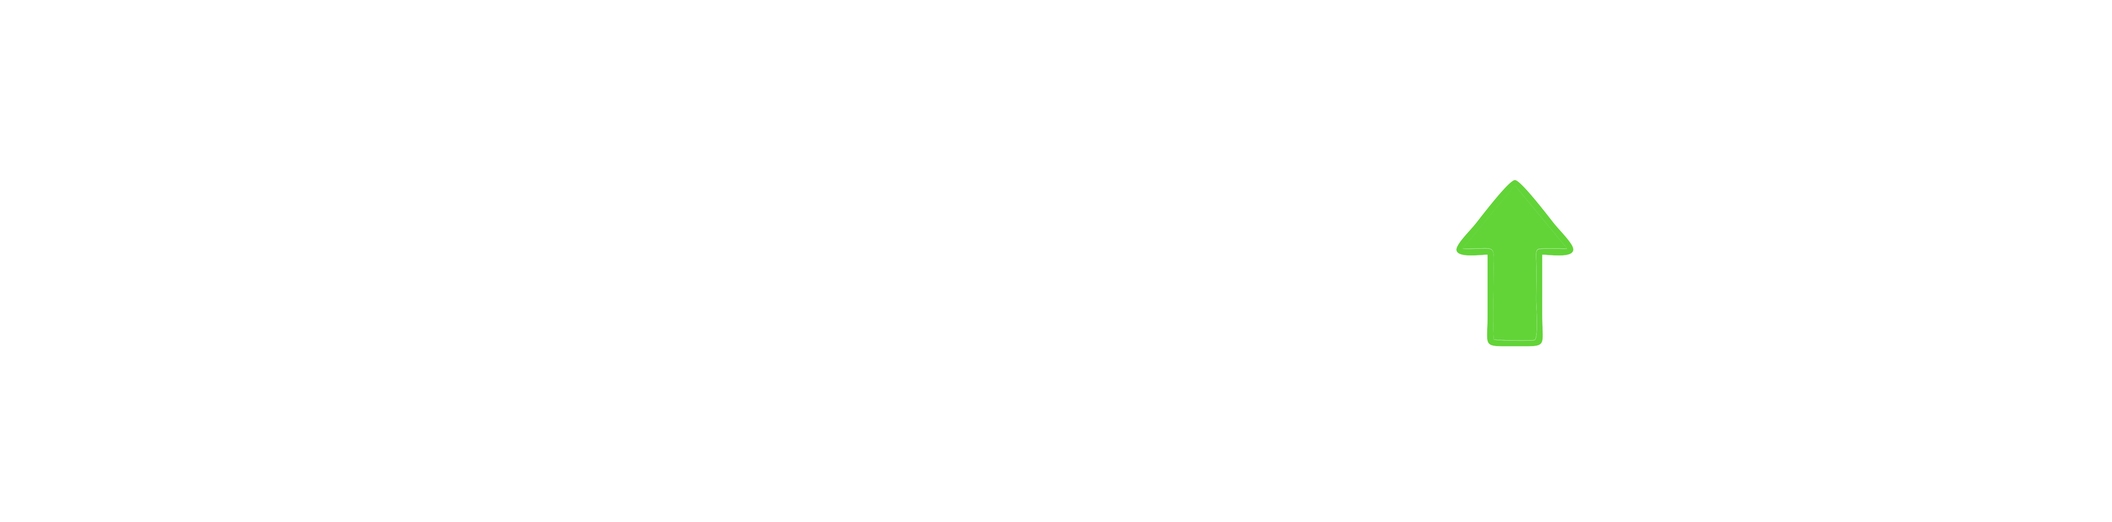
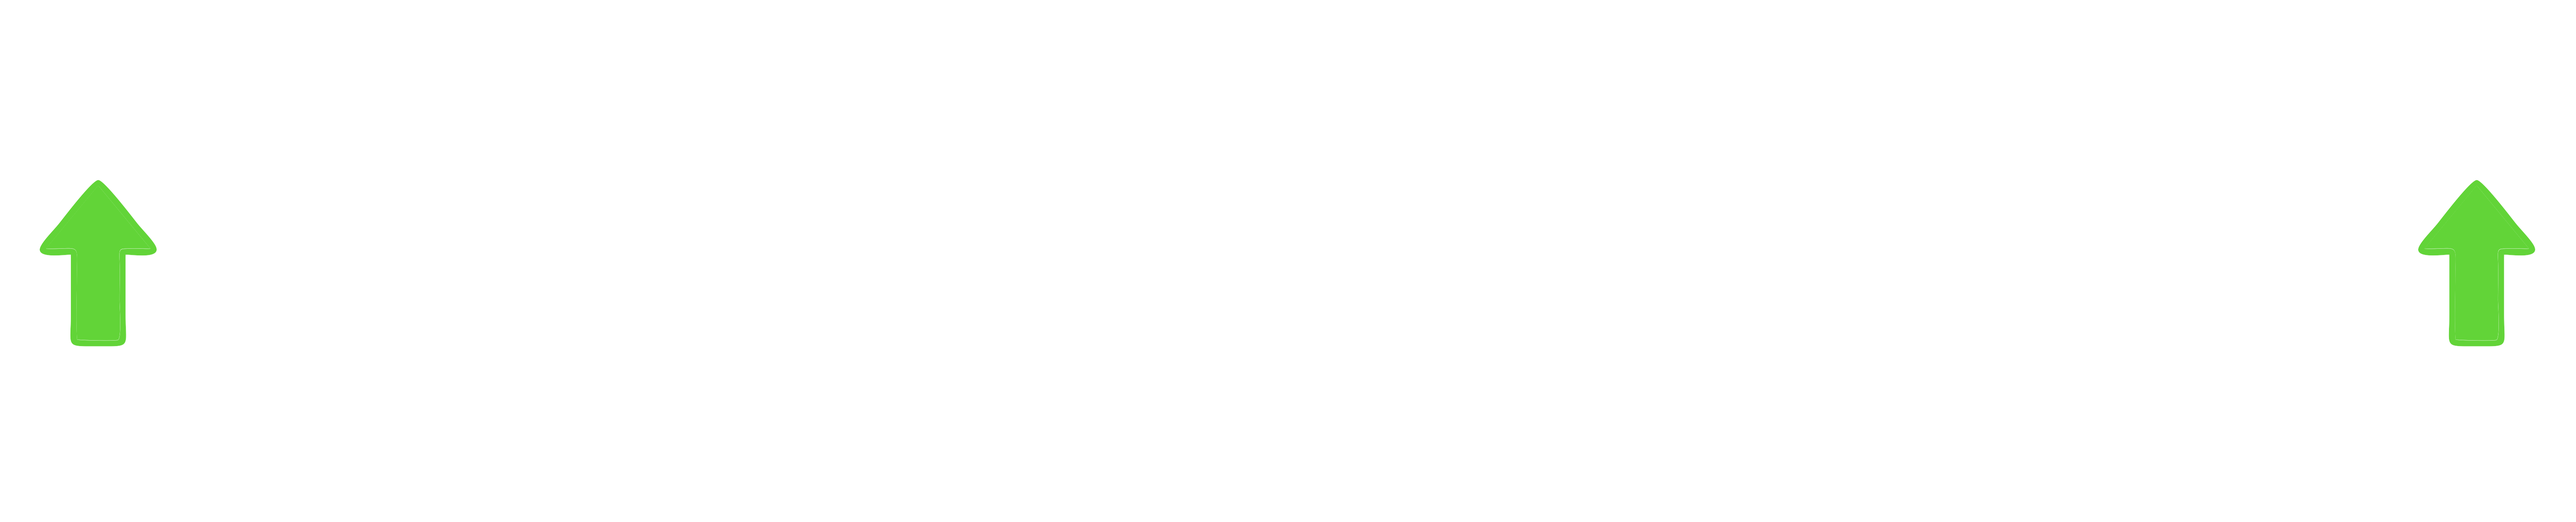
I made Paint and ArrowsWidget and Consts more readable and fix all function in Paint

Changed region(s): [[0.9351, 0.3363, 0.9974, 0.6726], [0.6857, 0.3669, 0.7481, 0.6726], [0.0, 0.3363, 0.0623, 0.6726]]

diff --git a/Paint.py b/Paint.py
@@ -5,114 +5,135 @@ from Consts import *
 
 
 class Paint:
-    def __init__(self, arrow_array=[], new_global_name="arrow", width=PICTURE_WIDTH, height=PICTURE_HEIGHT):
-        self.size = (width, height)
+    def __init__(self, arrow_array=[], new_global_name="arrow",
+                 compression=COMPRESSION_RATIO, size=PICTURE_SIZE):
+        self.size = size
         self.global_name = new_global_name
+        self.compression = compression
         if not arrow_array:
             self.arrow_array = [Arrow() for i in range(MASSIVE_SIZE)]
             return
         self.arrow_array = arrow_array
 
-    def clear_one(self, image, column_number, line_number, name="./src/tmp/arrows.png", width=WIDTH_ARROW, height=HEIGHT_ARROW):
+    def clear_one(self, image, position, name=NAME_ARROW_WIDGET):
         pixels = image.load()
-        for x in range(column_number, column_number + width):
-            for y in range(line_number, line_number + height):
+        arrow_size = (int(ARROW_SIZE[0] * self.compression[0]),
+                      int(ARROW_SIZE[1] * self.compression[1]))
+        image_position = (int((DISTANCE_BETWEEN_ARROWS + position * (ARROW_SIZE[0] + DISTANCE_BETWEEN_ARROWS)) * self.compression[0]),
+                          (image.size[1] - int(self.compression[1] * ARROW_SIZE[1]) + 1) // 2 +
+                          int(self.compression[1] * ARROW_SIZE[1]) - int(self.compression[1] * arrow_size[1]))
+        for x in range(image_position[0], image_position[0] + arrow_size[0]):
+            for y in range(image_position[1], image_position[1] + arrow_size[1]):
                 pixels[x, y] = (255, 255, 255, 0)
         image.save(name)
 
-    def clear_all(self, name="./src/tmp/arrows.png"):
-        for i in range(len(self.arrow_array)):
-            self.arrow_array[i] = Arrow()
+    def clear_all_arrows(self, name=NAME_ARROW_WIDGET):
         with Image.open(name) as image:
-            self.clear_one(image, 0, 0, name, image.size[0], image.size[1])
+            for position in range(len(self.arrow_array)):
+                if self.arrow_array[position].type != 0:
+                    self.clear_one(image, position, name)
+                self.arrow_array[position] = Arrow()
 
-    def draw_arrow_two(self, images, number, column_number,
-                       line_number, width=WIDTH_ARROW,
-                       distance=DISTANCE_BETWEEN_ARROWS,
-                       height=HEIGHT_ARROW):
-        position = (column_number, line_number)
-        size = (width, height)
+    def clear_all_image(self, name=NAME_COPY_ARROW_WIDGET):
+        with Image.open(name) as image:
+            pixels = image.load()
+            for i in range(image.size[0]):
+                for j in range(image.size[1]):
+                    pixels[i, j] = (255, 255, 255, 0)
+            image.save(name)
+
+    def clear_all_arrows_copy(self, name=NAME_COPY_ARROW_WIDGET,
+                              name_arrow=NAME_ARROW_WIDGET):
+        self.clear_all_arrows(name)
+        with Image.open(name) as image:
+            (image.resize(self.size, Image.Resampling.LANCZOS)).save(name_arrow)
+
+
+    def clear_copy(self, name_copy=NAME_COPY_ARROW_WIDGET,
+                   name_arrow=NAME_ARROW_WIDGET):
+        self.clear_all_image(name_copy)
+        with Image.open(name_copy) as image:
+            (image.resize(self.size, Image.Resampling.LANCZOS)).save(name_arrow)
+
+    def draw_arrow_two(self, images, number, position, arrow_size=ARROW_SIZE):
         arrow = self.arrow_array[number]
         if arrow.type == 0:
             return
-        arrow_name = "./src/arrows/" + str(arrow.type) + str(arrow.status) + str(arrow.direction) + str(arrow.accent)
+        arrow_name = (PATH_ARROWS_WIDGET + str(arrow.type) + str(arrow.status) +
+                      str(arrow.direction) + str(arrow.accent))
         with Image.open(arrow_name + "0.png") as image_arrow:
             images[0].paste(image_arrow, (position[0],
-                                          position[1] + height - image_arrow.size[1]),
+                                          position[1] + arrow_size[1] - image_arrow.size[1]),
                             image_arrow)
         with Image.open(arrow_name + "1.png") as image_arrow:
             images[1].paste(image_arrow, (position[0],
-                                          position[1] + height - image_arrow.size[1]), image_arrow)
+                                          position[1] + arrow_size[1] - image_arrow.size[1]),
+                            image_arrow)
 
 
-    def draw_arrow_one(self, image, number, column_number,
-                       line_number, width=WIDTH_ARROW, height=HEIGHT_ARROW,
-                       compression_width=COMPRESSION_RATIO_BY_WIDTH,
-                       compression_height=COMPRESSION_RATIO_BY_HEIGHT):
-        position = (column_number, line_number)
+    def draw_arrow_one(self, image, number, position, arrow_size=ARROW_SIZE,
+                       compression_ratio=COMPRESSION_RATIO):
         arrow = self.arrow_array[number]
         if arrow.type == 0:
             return
-        arrow_name = "./src/arrows/" + str(arrow.type) + str(arrow.status) + str(arrow.direction) + str(arrow.accent)
+        arrow_name = (PATH_ARROWS_WIDGET + str(arrow.type) + str(arrow.status) +
+                      str(arrow.direction) + str(arrow.accent))
         with Image.open(arrow_name + "1.png") as image_arrow:
-            new_image_arrow = image_arrow.resize((int(image_arrow.size[0] * compression_width),
-                                                 int(image_arrow.size[1] * compression_height)), Image.Resampling.LANCZOS)
-            image.paste(new_image_arrow, (position[0], position[1] + int(height * compression_height) - new_image_arrow.size[1]),
+
+            new_image_arrow = image_arrow.resize((int(image_arrow.size[0] * compression_ratio[0]),
+                                                 int(image_arrow.size[1] * compression_ratio[1])),
+                                                 Image.Resampling.LANCZOS)
+            image.paste(new_image_arrow, (position[0], position[1] +
+                                          int(arrow_size[1] * compression_ratio[1]) -
+                                          new_image_arrow.size[1]),
                         new_image_arrow)
 
     def draw_line(self, images, size=(PICTURE_WIDTH, PICTURE_HEIGHT),
-                  width_one_arrow = WIDTH_ARROW, distance_one_arrow = DISTANCE_BETWEEN_ARROWS):
+                  arrow_size=ARROW_SIZE, distance_one_arrow = DISTANCE_BETWEEN_ARROWS):
         width, height = size
-        line_number = (height - HEIGHT_ARROW + 1) // 2
+        line_number = (height - ARROW_HEIGHT + 1) // 2
         count = len(self.arrow_array)
         for position in range(count):
-            x = distance_one_arrow + position * (width_one_arrow + distance_one_arrow)
-            self.draw_arrow_two(images, position, x, line_number,
-                                width_one_arrow,
-                                distance_one_arrow)# Две последние можно вообще не указывать,
-                                                                              # если хочется сохранить качество стрелочек
+            width_projection = distance_one_arrow + position * (arrow_size[0] + distance_one_arrow)
+            image_position = (width_projection, line_number)
+            self.draw_arrow_two(images, position, image_position, arrow_size)
 
-    def draw(self, original_size=(DISTANCE_BETWEEN_ARROWS +
-                                  MASSIVE_SIZE * (WIDTH_ARROW + DISTANCE_BETWEEN_ARROWS), 3 * HEIGHT_ARROW)):
+    def draw(self, original_size=ORIGINAL_SIZE):
         image = Image.new("RGBA", original_size, (255, 255, 255, 0))
         hide_image = Image.new("RGBA", original_size, (255, 255, 255, 0))
-        self.size = original_size
-        name_arrow = "./arrows/" + self.global_name + ".png"
-        name_hide_arrow = "./arrows/hide_" + self.global_name + ".png"
+        name_arrow = PATH_ARROWS + self.global_name + ".png"
+        name_hide_arrow = PATH_HIDE_ARROWS + self.global_name + ".png"
         self.draw_line((hide_image, image), original_size)
         image.save(name_arrow)
         hide_image.save(name_hide_arrow)
 
-    def update_storage_all(self, new_arrows, name_arrow=NAME_ARROWS,
-                           name_hide_arrow=NAME_HIDE_ARROWS):
-        with Image.open(name_arrow) as image:
-            self.clear_one(image, 0, (self.size[1] - HEIGHT_ARROW + 1) // 2, name_arrow,
-                       self.size[0])
-        with Image.open(name_hide_arrow) as hide_image:
-            self.clear_one(image, 0, (self.size[1] - HEIGHT_ARROW + 1) // 2, name_hide_arrow,
-                           self.size[0])
+    def update_storage_all(self, new_arrows, copy_name_arrow=NAME_COPY_ARROW_WIDGET,
+                           name_arrow=NAME_ARROW_WIDGET, compression_ratio=COMPRESSION_RATIO):
+        self.clear_all_arrows(copy_name_arrow)
         self.arrow_array = new_arrows
-        self.draw(name_arrow, name_hide_arrow)
+        for i in range(len(new_arrows)):
+            self.update_storage_position(i, copy_name_arrow, name_arrow, compression_ratio)
 
-    def update_storage_position(self, position, copy_name_arrow="./src/tmp/copy_arrows.png",
-                                name_arrow="./src/tmp/arrows.png",
-                                width_one_arrow=WIDTH_ARROW,
-                                height_one_arrow=HEIGHT_ARROW,
-                                new_size=(PICTURE_WIDTH, PICTURE_HEIGHT),
-                                distance=DISTANCE_BETWEEN_ARROWS,
-                                original_size=(DISTANCE_BETWEEN_ARROWS + MASSIVE_SIZE
-                                               * (WIDTH_ARROW + DISTANCE_BETWEEN_ARROWS), 3 * HEIGHT_ARROW),
-                                compression_width=COMPRESSION_RATIO_BY_WIDTH,
-                                compression_height=COMPRESSION_RATIO_BY_HEIGHT):
-        with Image.open(copy_name_arrow) as image:
-            if int(original_size[0] * compression_width) != image.size[0] or int(original_size[1] * compression_height) != image.size[1]:
-                image = image.resize((int(original_size[0] * compression_width), int(original_size[1] * compression_height)), Image.Resampling.LANCZOS)
-            self.size = image.size
-            self.clear_one(image, int((distance + position * (width_one_arrow + distance)) * compression_width),
-                           (self.size[1] - int(compression_height * HEIGHT_ARROW) + 1) // 2, copy_name_arrow, int(width_one_arrow * compression_width),
-                           int(height_one_arrow * compression_height))
-            self.draw_arrow_one(image, position, int((distance + position * (width_one_arrow + distance)) * compression_width),
-                                (self.size[1] - int(compression_height * HEIGHT_ARROW) + 1) // 2)
+    def quick_change_size(self, copy_arrow=NAME_COPY_ARROW_WIDGET,
+                          new_size=ORIGINAL_SIZE):
+        with Image.open(copy_arrow) as image:
+            (image.resize(new_size, Image.Resampling.LANCZOS)).save(copy_arrow)
+
+    def new_compression(self, copy_name=NAME_COPY_ARROW_WIDGET, compression_ratio=COMPRESSION_RATIO):
+        self.compression = compression_ratio
+        with Image.open(copy_name) as image:
+            image = image.resize((int(image.size[0] * compression_ratio[0]),
+                                  int(image.size[1] * compression_ratio[1])),
+                                 Image.Resampling.LANCZOS)
+            image.save(copy_name)
+
+    def update_storage_position(self, position, copy_name_arrow=NAME_COPY_ARROW_WIDGET,
+                                name_arrow=NAME_ARROW_WIDGET, new_size=PICTURE_SIZE):
+        with (Image.open(copy_name_arrow) as image):
+            coordinate = (int((DISTANCE_BETWEEN_ARROWS + position * (ARROW_SIZE[0] + DISTANCE_BETWEEN_ARROWS)) * self.compression[0]),
+                        (image.size[1] - int(self.compression[1] * ARROW_HEIGHT) + 1) // 2)
+            self.clear_one(image, position, copy_name_arrow)
+            self.draw_arrow_one(image, position, coordinate)
             image.save(copy_name_arrow)
             (image.resize(new_size, Image.Resampling.LANCZOS)).save(name_arrow)
 
@@ -137,22 +158,27 @@ class Paint:
     def set_global_name(self, new_global_name="arrow"):
         self.global_name = new_global_name
 
-    def set_name(self, position, new_name, name_arrow="./src/tmp/copy_arrows.png"):
+    def set_name(self, position, new_name,
+                 name_arrow=NAME_COPY_ARROW_WIDGET):
         self.arrow_array[position].name = new_name
         self.update_storage_position(position, name_arrow)
 
-    def set_type(self, position, new_type, name_arrow="./src/tmp/copy_arrows.png"):
+    def set_type(self, position, new_type,
+                 name_arrow=NAME_COPY_ARROW_WIDGET):
         self.arrow_array[position].type = new_type
         self.update_storage_position(position, name_arrow)
 
-    def set_accent(self, position, new_accent, name_arrow="./src/tmp/copy_arrows.png"):
+    def set_accent(self, position, new_accent,
+                   name_arrow=NAME_COPY_ARROW_WIDGET):
         self.arrow_array[position].accent = new_accent
         self.update_storage_position(position, name_arrow)
 
-    def set_status(self, position, new_status, name_arrow="./src/tmp/copy_arrows.png"):
+    def set_status(self, position, new_status,
+                   name_arrow=NAME_COPY_ARROW_WIDGET):
         self.arrow_array[position].status = new_status
         self.update_storage_position(position, name_arrow)
 
-    def set_direction(self, position, new_direction, name_arrows="./src/tmp/copy_arrows.png"):
+    def set_direction(self, position, new_direction,
+                      name_arrows=NAME_COPY_ARROW_WIDGET):
         self.arrow_array[position].direction = new_direction
         self.update_storage_position(position, name_arrows)

diff --git a/ArrowsWidget.py b/ArrowsWidget.py
@@ -8,20 +8,8 @@ from PyQt5.QtGui import QPixmap
 from PyQt5 import uic
 
 from Paint import Paint, Image
+from Consts import NAME_ARROW_WIDGET, NAME_COPY_ARROW_WIDGET
 from Arrow import Arrow
-
-def clean_():
-    with Image.open("./src/tmp/arrows.png") as arrows, Image.open("./src/tmp/copy_arrows.png") as copy_arrows:
-        pixels = arrows.load()
-        for i in range(arrows.size[0]):
-            for j in range(arrows.size[1]):
-                pixels[i, j] = (255, 255, 255, 0)
-        pixels_copy = copy_arrows.load()
-        for i in range(copy_arrows.size[0]):
-            for j in range(copy_arrows.size[1]):
-                pixels_copy[i, j] = (255, 255, 255, 0)
-        arrows.save("./src/tmp/arrows.png")
-        copy_arrows.save("./src/tmp/copy_arrows.png")
 
 
 class ArrowsWidget(QDialog):
@@ -30,8 +18,7 @@ class ArrowsWidget(QDialog):
         uic.loadUi("src/arrows_widget.ui", self)
 
         self.arrows = Paint()
-        self.arrows.clear_all("./src/tmp/arrows.png")
-        self.arrows.clear_all("./src/tmp/copy_arrows.png")
+        self.arrows.clear_all_arrows_copy(NAME_COPY_ARROW_WIDGET)
 
         self.resetButton.clicked.connect(self.reset_pressed)
         self.submitButton.clicked.connect(self.submit_pressed)
@@ -109,8 +96,7 @@ class ArrowsWidget(QDialog):
         self.arrows.draw()
 
     def reset_pressed(self):
-        self.arrows.clear_all("./src/tmp/arrows.png")
-        self.arrows.clear_all("./src/tmp/copy_arrows.png")
+        self.arrows.clear_all_arrows_copy(NAME_COPY_ARROW_WIDGET)
         self.update_arrow_menu()
         self.update_visual_display()
 
@@ -119,7 +105,7 @@ class ArrowsWidget(QDialog):
 
     def update_visual_display(self):
         scene = QGraphicsScene()
-        pixmap = QPixmap("./src/tmp/arrows.png")
+        pixmap = QPixmap(NAME_ARROW_WIDGET)
         scene.addPixmap(pixmap)
         self.graphicsView.setScene(scene)
 
@@ -128,5 +114,5 @@ if __name__ == '__main__':
     ex = ArrowsWidget()
     #ex.destroyed.connect(clean_)
     ex.show()
-    app.aboutToQuit.connect(clean_)
+    app.aboutToQuit.connect(ex.arrows.clear_copy)
     sys.exit(app.exec_())

diff --git a/Consts.py b/Consts.py
@@ -20,12 +20,27 @@ DISPLAY_SIZE = (238, 278)
 
 # for arrows
 MASSIVE_SIZE = 16
-HEIGHT_ARROW = 447
-WIDTH_ARROW = 307
-DISTANCE_BETWEEN_ARROWS = 30
-COMPRESSION_RATIO_BY_WIDTH = 1 #лучше не делать < 0.12
-COMPRESSION_RATIO_BY_HEIGHT = 1 #лучше не делать < 0.16
+
 PICTURE_WIDTH = 650
 PICTURE_HEIGHT = 210
+PICTURE_SIZE = (PICTURE_WIDTH, PICTURE_HEIGHT)
+
+ARROW_HEIGHT = 447
+ARROW_WIDTH = 307
+ARROW_SIZE = (ARROW_WIDTH, ARROW_HEIGHT)
+
+DISTANCE_BETWEEN_ARROWS = 100
+
+ORIGINAL_SIZE = (DISTANCE_BETWEEN_ARROWS + MASSIVE_SIZE * (ARROW_WIDTH + DISTANCE_BETWEEN_ARROWS), 3 * ARROW_HEIGHT)
+
+COMPRESSION_RATIO_BY_WIDTH = 1  # лучше не делать < 0.12
+COMPRESSION_RATIO_BY_HEIGHT = 1  # лучше не делать < 0.16
+COMPRESSION_RATIO = (COMPRESSION_RATIO_BY_WIDTH, COMPRESSION_RATIO_BY_HEIGHT)
+
 NAME_ARROWS = "./arrows/arrows.png"
 NAME_HIDE_ARROWS = "./arrows/hide.png"
+NAME_ARROW_WIDGET = "./src/tmp/arrows.png"
+NAME_COPY_ARROW_WIDGET = "./src/tmp/copy_arrows.png"
+PATH_ARROWS = "./arrows/"
+PATH_HIDE_ARROWS = "./arrows/hide_"
+PATH_ARROWS_WIDGET = "./src/arrows/"
